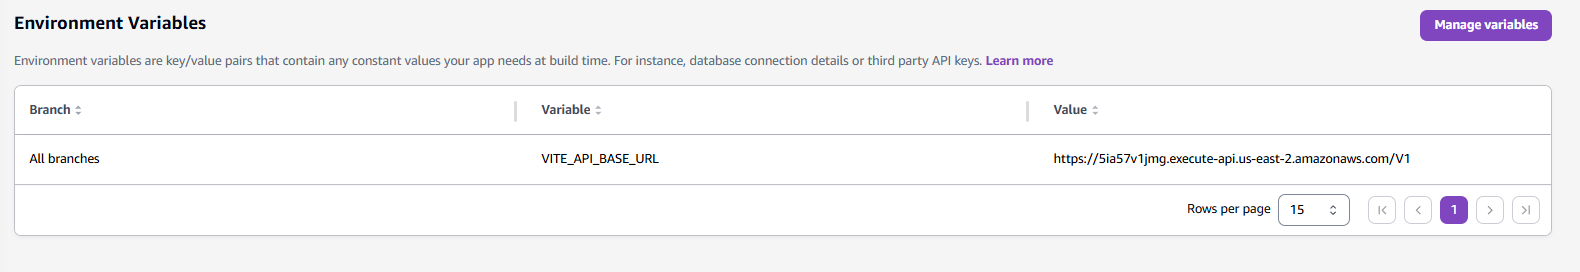
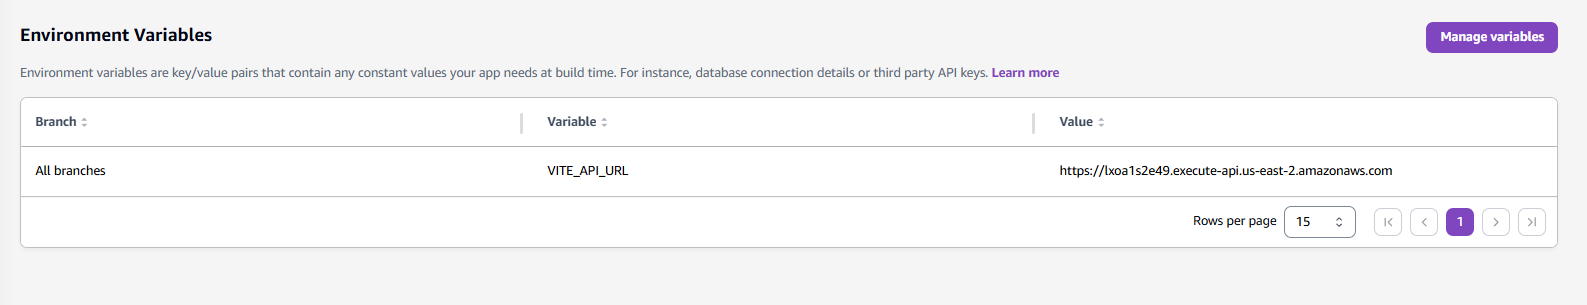
fix: replace hardcoded localhost URLs with VITE_API_URL

diff --git a/frontend/src/pages/Apply.tsx b/frontend/src/pages/Apply.tsx
@@ -553,7 +553,7 @@ const Step5 = ({ jobId, jobTitle, navigate }: Step5Props) => (
 
 // ── Component ──────────────────────────────────────────────────────────────────
 
-const BASE_URL = 'http://localhost:8080'
+const BASE_URL = import.meta.env.VITE_API_URL ?? 'http://localhost:8080'
 
 const Apply = () => {
   const { id } = useParams();

diff --git a/frontend/src/contexts/AuthContext.tsx b/frontend/src/contexts/AuthContext.tsx
@@ -32,7 +32,7 @@ interface AuthContextValue extends AuthState {
 
 const TOKEN_KEY = "cq_admin_token";
 const USER_KEY = "cq_admin_user";
-const API_BASE = "http://localhost:8080/api/v1";
+const API_BASE = `${import.meta.env.VITE_API_URL ?? 'http://localhost:8080'}/api/v1`;
 
 /**
  * Decodes the JWT payload and returns the `exp` field (Unix timestamp).
